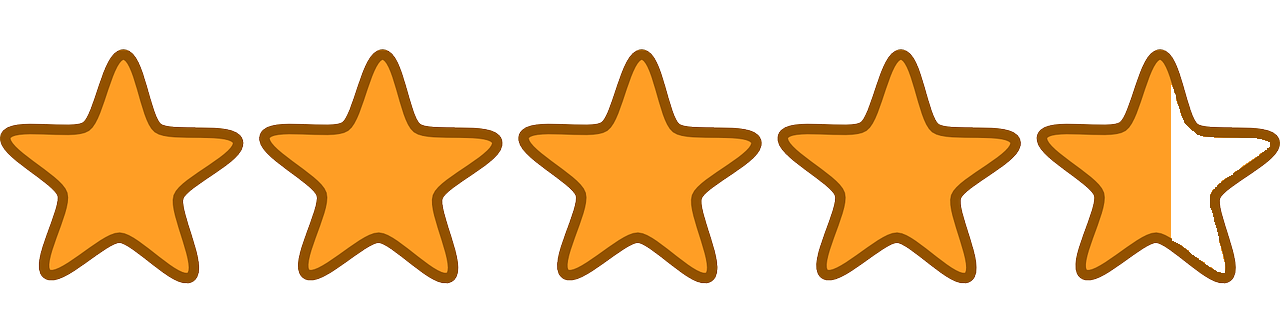
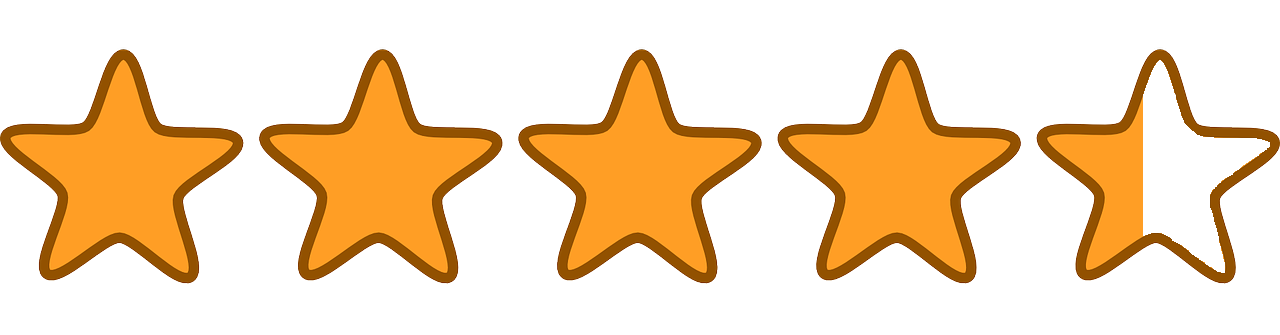
added rating to jumbo

Changed region(s): [[0.875, 0.1791, 0.9375, 0.7164]]

diff --git a/index.html b/index.html
@@ -158,12 +158,9 @@
                             Quitting Weed: The Complete Guide is the definitive
                             book on overcoming cannabis addiction.
                         </p>
-                        <a href="http://getbook.at/quittingweed" target="_blank"
-                            ><img
-                                src="./images/ebookMiniMobile.png"
-                                alt="Quitting Weed: The Complete Guide"
-                        /></a>
+                        
                         <div class="cta-btn-cont">
+                           
                             <a
                                 class="cta-buy"
                                 href="http://getbook.at/quittingweed"
@@ -181,6 +178,10 @@
                                     aria-hidden="true"
                                 ></i
                             ></a>
+                            <div class="stars">
+                                <img src="./icons/stars-trans.png" alt="stars" />
+                                <p>102 Reviews Average: 4.3/5</p>
+                            </div>
                         </div>
                         <!-- <p class="mt-1 asterisk">
                             *Available as a paperback/ebook on
@@ -196,38 +197,6 @@
                                 >Smashwords
                             </a>
                         </p> -->
-
-                        <div id="stickyCTA" class="sticky-format">
-                            <strong
-                                >Available as a
-                                <a
-                                    href="http://getbook.at/quittingweed"
-                                    target="_blank"
-                                    >paperback</a
-                                >
-                                and
-                                <a
-                                    href="http://getbook.at/quittingweedebook"
-                                    target="_blank"
-                                    >ebook</a
-                                >
-                                <a
-                                    href="http://getbook.at/quittingweedebook?_encoding=UTF8&camp=1789&creative=9325&linkCode=ur2&tag=storypodca-20&linkId=2P4S6EY6B462X4AR"
-                                    target="_blank"
-                                    rel="noopener noreferrer"
-                                    style="border: none; text-decoration: none"
-                                >
-                                    <img
-                                        src="https://www.niftybuttons.com/amazon/amazon-button3.png"
-                                        style="
-                                            padding-left: 0.3em;
-                                            padding-right: 0.3em;
-                                        "
-                                        alt="amazon button"
-                                /></a>
-                            </strong>
-                            <a href="#end" class="share-link">Share</a>
-                        </div>
                     </div>
                 </div>
                 <!-- <hr class="my-4" /> -->
@@ -237,7 +206,28 @@
 
                 <!-- hidden mobile image -->
             </div>
-
+            <!-- Sticky CTA -->
+            <div id="stickyCTA" class="sticky-format">
+                <strong
+                    >
+        
+                    <a href="http://getbook.at/quittingweed" target="_blank"
+                        ><span>Quitting Weed: The Complete Guide</span>
+                        <span style="font-style: italic;">by Matthew Clarke</span>
+                    <a
+                        href="http://getbook.at/quittingweedebook?_encoding=UTF8&camp=1789&creative=9325&linkCode=ur2&tag=storypodca-20&linkId=2P4S6EY6B462X4AR"
+                        target="_blank"
+                        rel="noopener noreferrer"
+                        style="border: none; text-decoration: none"
+                    >
+                        <img
+                            src="https://www.niftybuttons.com/amazon/amazon-button3.png"
+                            style="padding-left: 0.3em; padding-right: 0.3em"
+                            alt="amazon button"
+                    /></a>
+                </strong>
+                <a href="#end" class="share-link">Share</a>
+            </div>
             <!-- Testimonials -->
             <section id="testimonials" class="testimonials pb-4">
                 <div class="heading text-center pt-3">
@@ -1928,7 +1918,7 @@
                         </div>
                         <div class="stars">
                             <img src="./icons/stars.png" alt="stars" />
-                            <p>71 Reviews Average: 4.4/5</p>
+                            <p>102 Reviews Average: 4.3/5</p>
                         </div>
                         <p>Available at Amazon</p>
                         <div class="purchaseBook">

diff --git a/styles.css b/styles.css
@@ -8,7 +8,7 @@ html {
 }
 
 body {
-    max-width: 1400px;
+    max-width: 1600px;
     margin: auto;
 }
 h2 {
@@ -203,7 +203,6 @@ footer {
 }
 
 .sticky-format {
-    background-color: #273746;
     color: white;
     border: 3px orange solid;
     padding: 0.5em;
@@ -213,9 +212,16 @@ footer {
 }
 #stickyCTA {
     display: none;
+    background: #006633;
 }
 #stickyCTA a:hover {
     color: orange !important;
+}
+
+#stickyCTA span {
+    text-transform: uppercase;
+    color: white;
+    font-weight: 400;
 }
 .my-4 {
     height: 2px;
@@ -263,12 +269,12 @@ img[src="./images/ebookMiniMobile.png"] {
 }
 
 .jumbo-content {
-    width: 50%;
+    width: 55%;
     margin-left: auto;
     margin-bottom: 12em;
     display: flex;
     background-color: rgba(255, 255, 255, 0.3);
-    padding: 1.5em;
+    padding: 0.5em;
     border-radius: 10px;
 }
 .jumbo-content img {
@@ -281,7 +287,7 @@ img[src="./images/ebookMiniMobile.png"] {
     flex-direction: column;
     justify-content: space-evenly;
     margin: 0;
-    font-size: 0.7em;
+    font-size: 0.8em;
 }
 
 .jumbo-text h1 {
@@ -307,8 +313,19 @@ img[src="./images/ebookMiniMobile.png"] {
 }
 .cta-btn-cont {
     text-align: right;
-    padding: 2em 0;
+    padding-top: 2em;
     padding-left: 0.5em;
+}
+
+.cta-btn-cont .stars,
+.cta-btn-cont .stars img {
+    margin-left: auto;
+}
+.cta-btn-cont .stars img {
+    width: 30%;
+    height: auto;
+    padding-top: 1.75em;
+    padding-right: 0 !important;
 }
 .cta-learn,
 .cta-buy {
@@ -616,7 +633,7 @@ img[src="./images/booksAll.png"] {
 .purchaseBook img {
     width: 100%;
 }
-.stars {
+#purchase .stars {
     width: 90%;
     margin: 1em auto;
     border: 3px black solid;
